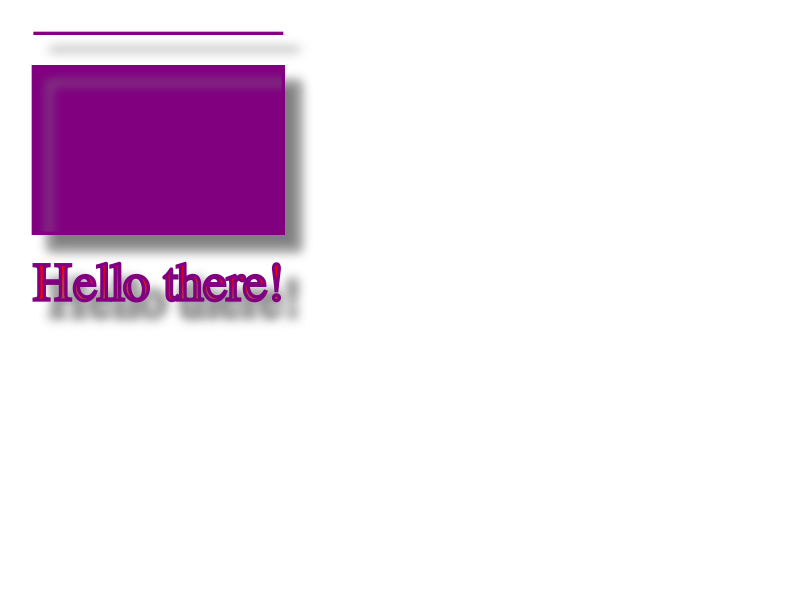
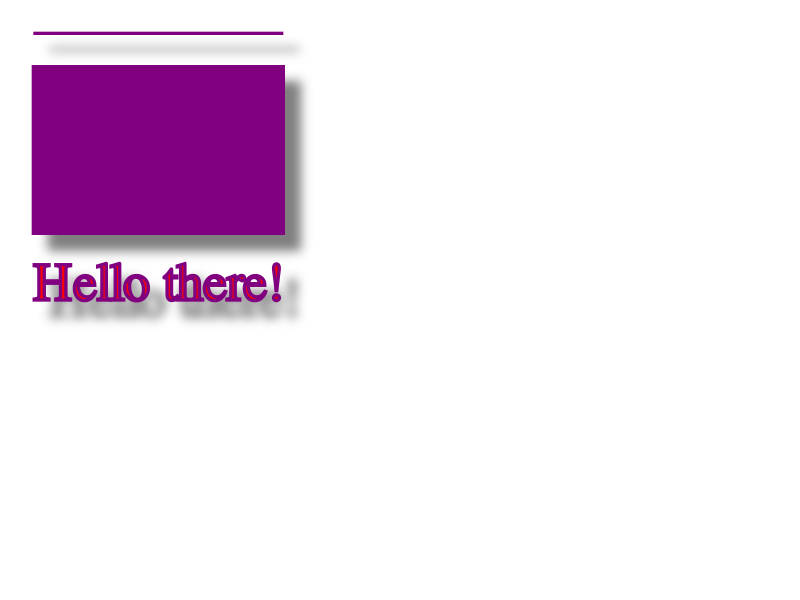
WebCore: Fix for https://bugs.webkit.org/show_bug.cgi?id=32346 SVG property -webkit-shadow should apply shadow on the result after compositing -and corresponding- <rdar://problem/7389404>
Reviewed by Oliver Hunt.

Set a transparency layer when setting a shadow to apply the shadow 
to the composite.
* rendering/SVGRenderSupport.cpp:
(WebCore::SVGRenderBase::prepareToRenderSVGContent):
(WebCore::SVGRenderBase::finishRenderSVGContent):

LayoutTests: Tests for https://bugs.webkit.org/show_bug.cgi?id=32346 SVG 
property -webkit-shadow should apply shadow on the result after 
compositing
-and corresponding-
<rdar://problem/7389404>

Reviewed by Oliver Hunt.

New tests:
* platform/mac/svg/css/composite-shadow-example-expected.checksum: Added.
* platform/mac/svg/css/composite-shadow-example-expected.png: Added.
* platform/mac/svg/css/composite-shadow-example-expected.txt: Added.
* platform/mac/svg/css/composite-shadow-with-opacity-expected.checksum: Added.
* platform/mac/svg/css/composite-shadow-with-opacity-expected.png: Added.
* platform/mac/svg/css/composite-shadow-with-opacity-expected.txt: Added.
* svg/css/composite-shadow-example.html: Added.
* svg/css/composite-shadow-with-opacity.html: Added.

New and improved results:
* platform/mac/svg/css/group-with-shadow-expected.checksum:
* platform/mac/svg/css/group-with-shadow-expected.png:

git-svn-id: http://svn.webkit.org/repository/webkit/trunk@51936 268f45cc-cd09-0410-ab3c-d52691b4dbfc

Changed region(s): [[0.0312, 0.12, 0.375, 0.39]]

diff --git a/LayoutTests/svg/css/composite-shadow-with-opacity.html b/LayoutTests/svg/css/composite-shadow-with-opacity.html
@@ -1,0 +1,87 @@
+<html>
+<head>
+<script language="javascript">
+<!--
+
+SVG_NS = 'http://www.w3.org/2000/svg';
+
+function pathFromStar (radius, innerRadius, sides) {
+    var path = [];
+    for (var i = 0; i < sides * 2; ++i) {
+        var theta = Math.PI * i / sides + (Math.PI / 2);
+        var r = (i % 2) ? radius : innerRadius;
+        var x = r * Math.cos(theta);
+        var y = r * Math.sin(theta);
+        path.push((i ? 'L' : 'M'), x, y);
+    }
+    path.push('Z');
+    return path.join(' ');
+}
+
+function newSvgElement (tagName, parentNode, attrs) {
+    var node = document.createElementNS(SVG_NS, tagName);
+    if (attrs) {
+        for (var k in attrs) {
+            node.setAttribute(k, attrs[k]);
+        }
+    }
+    if (parentNode) {
+        parentNode.appendChild(node);
+    }
+    return node;
+}
+
+function setCenterPosition (node, x, y) {
+    node.setAttribute('transform', 'translate($1, $2)'
+        .replace('$1', x)
+        .replace('$2', y));
+}
+
+var armed = null;
+
+window.addEventListener('load', function () {
+
+    var svgContainer = newSvgElement('svg', document.body);
+    var shapes = [
+        { pos: [ 100, 100 ], size: 60, hasStroke: false },
+        { pos: [ 250, 100 ], size: 60, hasStroke: true },
+        { pos: [ 400, 100 ], size: 50, hasStroke: true }
+    ];
+    svgContainer.style.WebkitShadow = '5px 5px 5px red';
+    svgContainer.style.opacity = '0.5';
+    for (var i = 0; i < shapes.length; ++i) {
+        var shape = shapes[i];
+        var group = newSvgElement('g', svgContainer);
+        var node = newSvgElement('path', group, {
+            d: pathFromStar(shape.size, shape.size / 2, 5),
+            fill: '#999',
+            stroke: 'black',
+            'stroke-width': 10,
+        });
+        setCenterPosition(node, shape.pos[0], shape.pos[1]);
+        if (shapes[i].hasStroke) {
+            node.setAttribute('stroke-dasharray', 20);
+        }
+        node.addEventListener('mousedown', function (ev) {
+            var e = ev || event;
+            armed = { node: e.target || e.srcElement };
+        });
+        node.addEventListener('mouseup', function () {
+            armed = null;
+        });
+    }
+    window.addEventListener('mousemove', function (ev) {
+        if (armed) {
+            var e = ev || event;
+            setCenterPosition(armed.node, e.clientX, e.clientY);
+        }
+    });
+});
+
+//-->
+</script>
+</head>
+<body>
+
+</body>
+</html>

diff --git a/LayoutTests/svg/css/composite-shadow-example.html b/LayoutTests/svg/css/composite-shadow-example.html
@@ -1,0 +1,86 @@
+<html>
+<head>
+<script language="javascript">
+<!--
+
+SVG_NS = 'http://www.w3.org/2000/svg';
+
+function pathFromStar (radius, innerRadius, sides) {
+    var path = [];
+    for (var i = 0; i < sides * 2; ++i) {
+        var theta = Math.PI * i / sides + (Math.PI / 2);
+        var r = (i % 2) ? radius : innerRadius;
+        var x = r * Math.cos(theta);
+        var y = r * Math.sin(theta);
+        path.push((i ? 'L' : 'M'), x, y);
+    }
+    path.push('Z');
+    return path.join(' ');
+}
+
+function newSvgElement (tagName, parentNode, attrs) {
+    var node = document.createElementNS(SVG_NS, tagName);
+    if (attrs) {
+        for (var k in attrs) {
+            node.setAttribute(k, attrs[k]);
+        }
+    }
+    if (parentNode) {
+        parentNode.appendChild(node);
+    }
+    return node;
+}
+
+function setCenterPosition (node, x, y) {
+    node.setAttribute('transform', 'translate($1, $2)'
+        .replace('$1', x)
+        .replace('$2', y));
+}
+
+var armed = null;
+
+window.addEventListener('load', function () {
+
+    var svgContainer = newSvgElement('svg', document.body);
+    var shapes = [
+        { pos: [ 100, 100 ], size: 60, hasStroke: false },
+        { pos: [ 250, 100 ], size: 60, hasStroke: true },
+        { pos: [ 400, 100 ], size: 50, hasStroke: true }
+    ];
+    svgContainer.style.WebkitShadow = '5px 5px 5px red';
+    for (var i = 0; i < shapes.length; ++i) {
+        var shape = shapes[i];
+        var group = newSvgElement('g', svgContainer);
+        var node = newSvgElement('path', group, {
+            d: pathFromStar(shape.size, shape.size / 2, 5),
+            fill: '#999',
+            stroke: 'black',
+            'stroke-width': 10,
+        });
+        setCenterPosition(node, shape.pos[0], shape.pos[1]);
+        if (shapes[i].hasStroke) {
+            node.setAttribute('stroke-dasharray', 20);
+        }
+        node.addEventListener('mousedown', function (ev) {
+            var e = ev || event;
+            armed = { node: e.target || e.srcElement };
+        });
+        node.addEventListener('mouseup', function () {
+            armed = null;
+        });
+    }
+    window.addEventListener('mousemove', function (ev) {
+        if (armed) {
+            var e = ev || event;
+            setCenterPosition(armed.node, e.clientX, e.clientY);
+        }
+    });
+});
+
+//-->
+</script>
+</head>
+<body>
+
+</body>
+</html>

diff --git a/WebCore/rendering/SVGRenderSupport.cpp b/WebCore/rendering/SVGRenderSupport.cpp
@@ -94,8 +94,17 @@ void SVGRenderBase::prepareToRenderSVGContent(RenderObject* object, RenderObject
         paintInfo.context->beginTransparencyLayer(opacity);
     }
 
-    if (ShadowData* shadow = svgStyle->shadow())
-        paintInfo.context->setShadow(IntSize(shadow->x, shadow->y), shadow->blur, shadow->color, style->colorSpace()); 
+    if (ShadowData* shadow = svgStyle->shadow()) {
+        int xShift = shadow->x < 0 ? shadow->x : 0;
+        int yShift = shadow->y < 0 ? shadow->y :0;
+        int widthShift = shadow->x < 0 ? 0 : shadow->x;
+        int heightShift = shadow->y < 0 ? 0 : shadow->y;
+        FloatRect shadowRect = FloatRect(boundingBox.x() + xShift, boundingBox.y() + yShift,
+            boundingBox.width() + widthShift, boundingBox.height() + heightShift);
+        paintInfo.context->clip(enclosingIntRect(shadowRect));
+        paintInfo.context->setShadow(IntSize(shadow->x, shadow->y), shadow->blur, shadow->color, style->colorSpace());
+        paintInfo.context->beginTransparencyLayer(1.0f);
+    }
 
 #if ENABLE(FILTERS)
     AtomicString filterId(svgStyle->filter());
@@ -162,6 +171,11 @@ void SVGRenderBase::finishRenderSVGContent(RenderObject* object, RenderObject::P
 
     float opacity = style->opacity();    
     if (opacity < 1.0f)
+        paintInfo.context->endTransparencyLayer();
+
+    // This needs to be done separately from opacity, because if both properties are set,
+    // then the transparency layers are nested. 
+    if (style->svgStyle()->shadow())
         paintInfo.context->endTransparencyLayer();
 }
 
